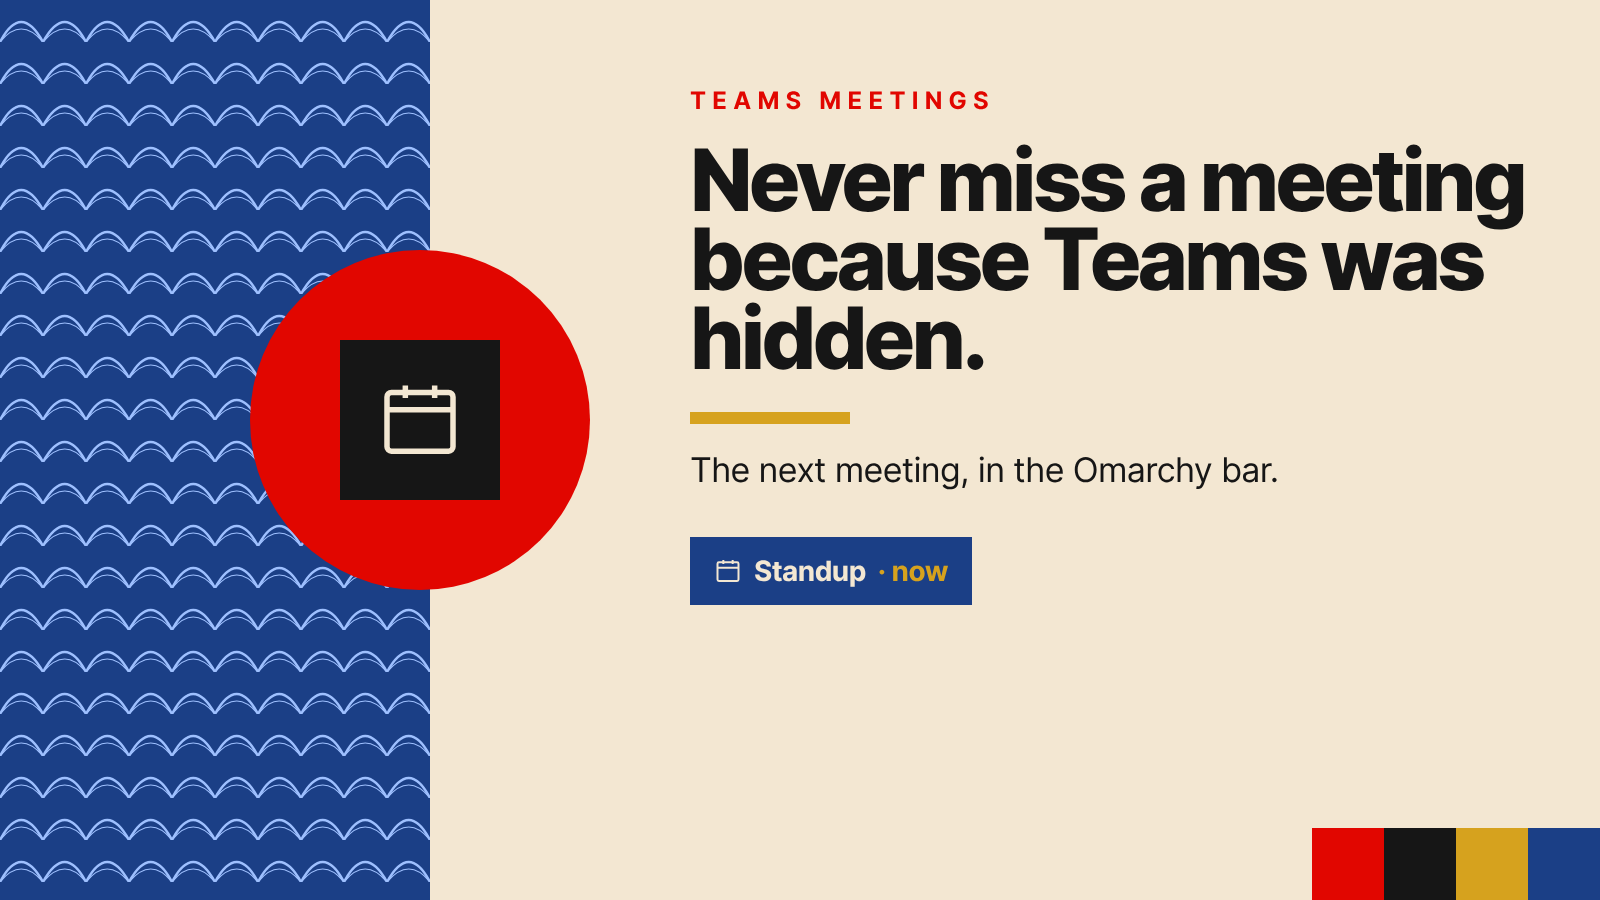
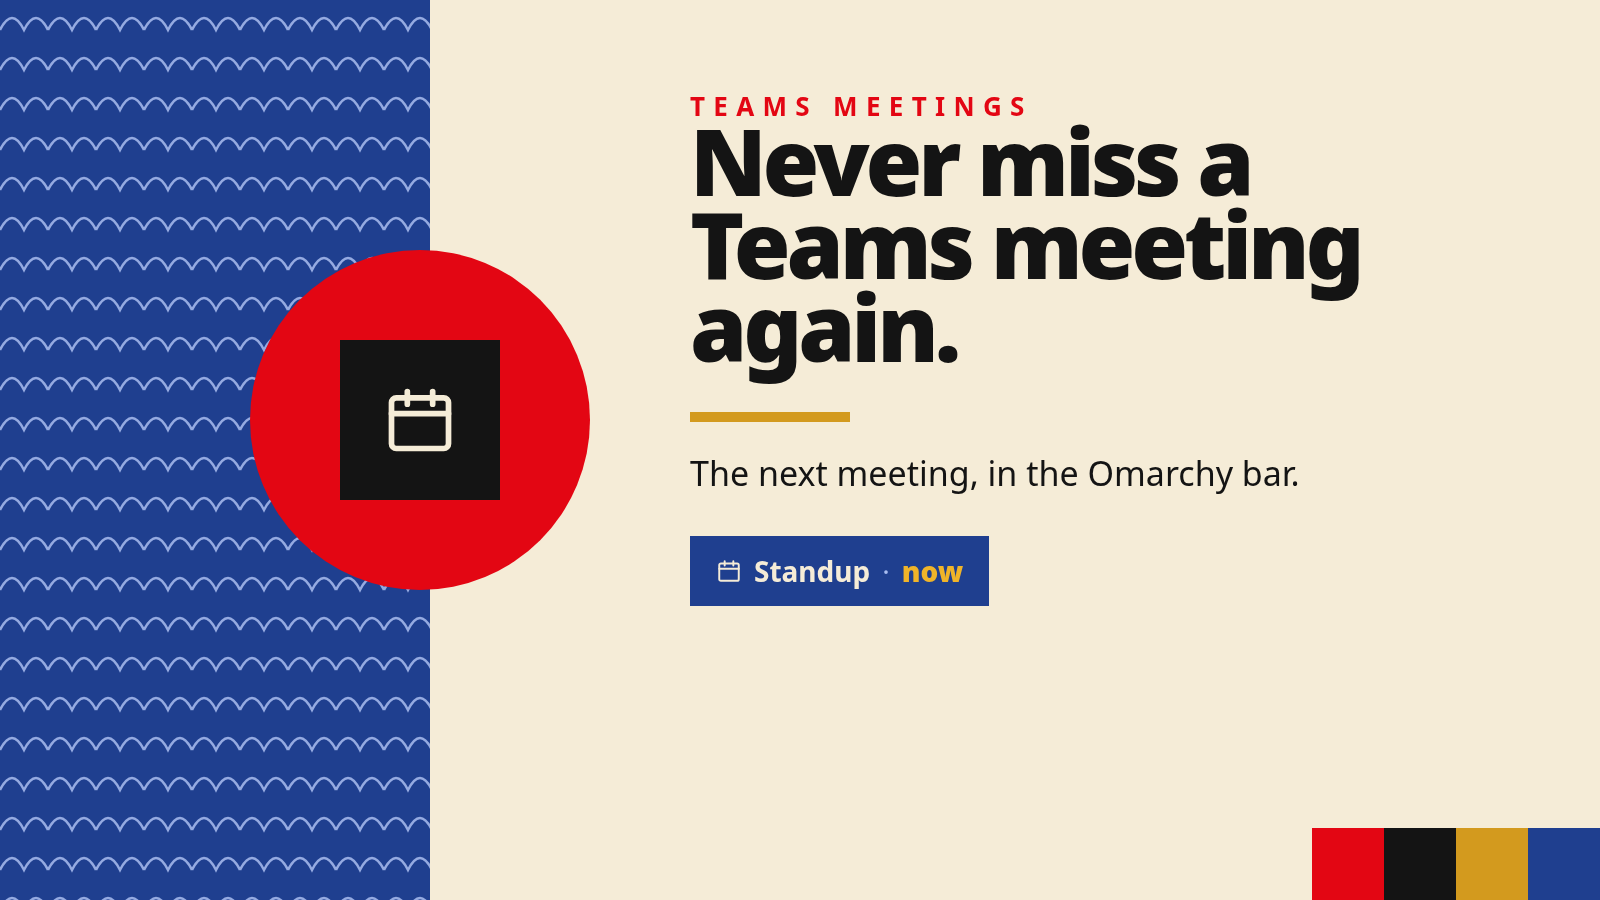
Use the GitHub handle as author and sharpen the description
Replace the full name with zakkoo in LICENSE and manifest.json, lead with
"Never miss a Teams meeting again." in the manifest, README and preview
image, and list the scroll and hide-finished options in the README.

diff --git a/README.md b/README.md
@@ -1,6 +1,6 @@
 # Teams Meetings for Omarchy
 
-**Never miss a Teams meeting again because Teams was hidden.**
+**Never miss a Teams meeting again.**
 
 Teams for Linux only reminds you inside its own window. This
 widget puts your next meeting straight into the Omarchy bar.
@@ -45,9 +45,11 @@ meeting directly. Middle click dismisses a meeting you are skipping.
 
 Everything is in the popup under **Settings & connection**: how far ahead the
 next meeting appears (15 minutes by default), how often the calendar is
-checked, an optional pop-up reminder, and, under *Advanced*, the local port
-and message prefix used to talk to Teams for Linux. The same values are also
-editable in the shell's widget settings form.
+checked, whether long titles scroll through the bar, an optional pop-up
+reminder and its lead time, and, under *Advanced*, the local port and message
+prefix used to talk to Teams for Linux. The meeting list has its own toggle to
+hide finished meetings. The same values are also editable in the shell's
+widget settings form.
 
 ## Remove
 
